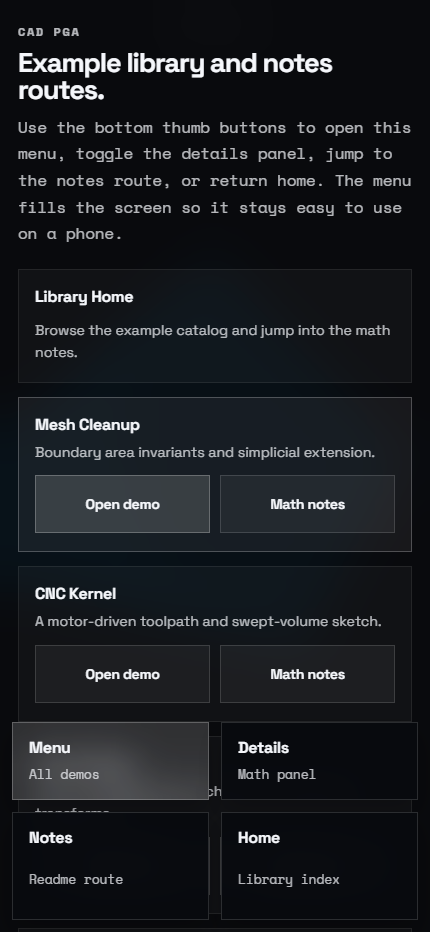
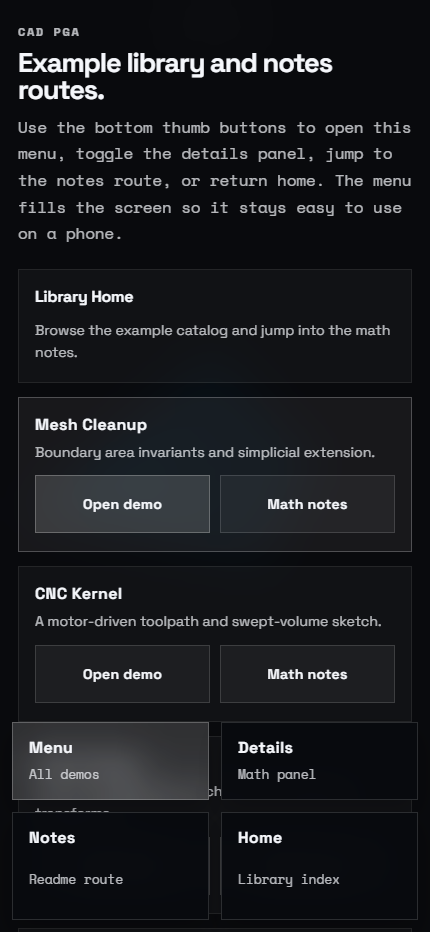
Polish mobile demo framing and docs typography

diff --git a/scripts/generate-screenshots.ts b/scripts/generate-screenshots.ts
@@ -37,36 +37,36 @@ const screenshots: ScreenshotSpec[] = [
   {
     fileName: "library-home.png",
     path: "/",
-    viewport: { width: 1440, height: 1100 },
-    waitMs: 1200
+    viewport: { width: 430, height: 932 },
+    waitMs: 2200
   },
   {
     fileName: "mesh-cleanup.png",
     path: "/mesh-cleanup/",
-    viewport: { width: 1440, height: 960 },
+    viewport: { width: 430, height: 932 },
     waitMs: 2200,
-    prepare: hideDetails
+    prepare: ensureDetailsClosed
   },
   {
     fileName: "cnc-kernel-simulator.png",
     path: "/cnc-kernel-simulator/",
-    viewport: { width: 1440, height: 960 },
-    waitMs: 2200,
-    prepare: hideDetails
+    viewport: { width: 430, height: 932 },
+    waitMs: 3200,
+    prepare: ensureDetailsClosed
   },
   {
     fileName: "gear-rotation-linkage.png",
     path: "/gear-rotation-linkage/",
-    viewport: { width: 1440, height: 960 },
-    waitMs: 1800,
-    prepare: hideDetails
+    viewport: { width: 430, height: 932 },
+    waitMs: 700,
+    prepare: ensureDetailsClosed
   },
   {
     fileName: "meshless-fea-wos.png",
     path: "/meshless-fea-wos/",
-    viewport: { width: 1440, height: 960 },
+    viewport: { width: 430, height: 932 },
     waitMs: 4200,
-    prepare: hideDetails
+    prepare: ensureDetailsClosed
   },
   {
     fileName: "mobile-menu.png",
@@ -107,6 +107,7 @@ async function captureShot(browser: Browser, baseUrl: string, shot: ScreenshotSp
     await page.setViewport(shot.viewport);
     await page.goto(`${baseUrl}${shot.path}`, { waitUntil: "networkidle0" });
     await waitForStableUi(page);
+    await waitForMathIfNeeded(page);
 
     if (shot.prepare) {
       await shot.prepare(page);
@@ -139,6 +140,20 @@ async function waitForStableUi(page: Page) {
       })
     )
   );
+}
+
+async function waitForMathIfNeeded(page: Page) {
+  await page.waitForFunction(() => {
+    const root = document.documentElement;
+    const isDocsPage = !!document.querySelector("main.page-shell");
+    if (!isDocsPage) {
+      return true;
+    }
+
+    return root.classList.contains("docs-enhanced") &&
+      !root.classList.contains("math-loading") &&
+      !root.classList.contains("demo-math-loading");
+  }, { timeout: 20000 }).catch(() => undefined);
 }
 
 function createStaticServer(rootPath: string) {
@@ -207,12 +222,22 @@ function delay(ms: number) {
   });
 }
 
-async function hideDetails(page: Page) {
-  const button = await page.$('button[data-demo-toggle="details"]');
-  if (!button) {
-    return;
+async function ensureDetailsClosed(page: Page) {
+  const detailsOpen = await page.evaluate(() =>
+    document.body.classList.contains("cad-pga-details-open")
+  );
+
+  if (detailsOpen) {
+    const button = await page.$('button[data-demo-toggle="details"]');
+    if (button) {
+      await button.click();
+      await delay(250);
+    }
   }
 
-  await button.click();
-  await delay(250);
+  await page.evaluate(() => {
+    if (document.activeElement instanceof HTMLElement) {
+      document.activeElement.blur();
+    }
+  });
 }

diff --git a/src/demo-panels.css b/src/demo-panels.css
@@ -31,7 +31,7 @@ body.cad-pga-demo-page select {
 .cad-pga-menu-copy strong,
 .cad-pga-menu-action,
 .cad-pga-controls-label {
-  letter-spacing: -0.02em;
+  letter-spacing: 0.02em;
 }
 
 .cad-pga-thumb-meta,
@@ -70,22 +70,22 @@ body.cad-pga-demo-page select {
   color: var(--demo-ink-strong) !important;
   font-family: "Space Grotesk", "Segoe UI", "Helvetica Neue", Arial, sans-serif;
   font-weight: 700;
-  letter-spacing: -0.05em;
+  letter-spacing: 0.03em;
 }
 
 .cad-pga-details-panel h1 {
   font-size: clamp(1.45rem, 2vw, 1.9rem) !important;
-  line-height: 0.96;
+  line-height: 1.14;
   border: 0 !important;
   padding: 0 !important;
 }
 
 .cad-pga-details-panel h2 {
   font-size: 0.86rem !important;
-  line-height: 1.2;
+  line-height: 1.42;
   color: var(--demo-faint) !important;
   text-transform: uppercase;
-  letter-spacing: 0.12em !important;
+  letter-spacing: 0.16em !important;
 }
 
 .cad-pga-details-panel p,
@@ -225,15 +225,6 @@ body.cad-pga-demo-page select {
 
 .cad-pga-details-panel mjx-container[jax="CHTML"][display="true"] {
   margin: 0;
-}
-
-html.demo-math-loading .cad-pga-details-panel::after {
-  content: "Rendering math...";
-  display: block;
-  margin-top: 8px;
-  color: var(--demo-faint);
-  font-size: 0.76rem;
-  font-family: "Space Mono", "Cascadia Code", "SFMono-Regular", Consolas, monospace;
 }
 
 html.demo-math-error .cad-pga-details-panel::after {

diff --git a/cnc-kernel-simulator/index.html b/cnc-kernel-simulator/index.html
@@ -183,7 +183,7 @@ p'(t) = \mathbf{M}(t)\,p\,\widetilde{\mathbf{M}(t)}
             // In ganja's basis ordering that becomes -x*e023 + y*e013 - z*e012 + e123.
             const point = (x, y, z) => 1e123 - x * 1e023 + y * 1e013 - z * 1e012;
             const orbitRotor = (h, p) => (p * 1e23).Exp().Mul((h * 1e13).Exp());
-            const view = { h: -0.28, p: -0.16, scale: 1.1 };
+            const view = { h: -0.28, p: -0.16, scale: 0.54 };
             const camera = 0e0;
             camera.set(orbitRotor(view.h, view.p));
 
@@ -245,6 +245,7 @@ p'(t) = \mathbf{M}(t)\,p\,\widetilde{\mathbf{M}(t)}
             const drillRadius = 0.3;
             const drillHeight = 0.8;
             const cutTravel = 1.7;
+            const startTime = performance.now();
 
             const stockWireframe = makeBoxWireframe(stockParams.w, stockParams.h, stockParams.d);
             const cutVolume = makeSolidBox(cutTravel + drillRadius, drillRadius, stockParams.d + 0.01);
@@ -260,7 +261,7 @@ p'(t) = \mathbf{M}(t)\,p\,\widetilde{\mathbf{M}(t)}
             };
 
             const canvas = this.graph(() => {
-                const time = performance.now() / 1000;
+                const time = (performance.now() - startTime) / 1000;
 
                 const spinAngle = time * -15;
                 const rotor = Math.cos(spinAngle / 2) + Math.sin(spinAngle / 2) * 1e12;

diff --git a/src/docs.css b/src/docs.css
@@ -92,23 +92,23 @@ h3 {
   color: var(--ink-strong);
   font-family: "Space Grotesk", "Segoe UI", "Helvetica Neue", Arial, sans-serif;
   font-weight: 700;
-  letter-spacing: 0.01em;
+  letter-spacing: 0.03em;
 }
 
 h1 {
   max-width: 10ch;
   font-size: clamp(2.8rem, 7vw, 5rem);
-  line-height: 0.88;
+  line-height: 1.08;
 }
 
 h2 {
   font-size: clamp(1.7rem, 3vw, 2.35rem);
-  line-height: 0.96;
+  line-height: 1.14;
 }
 
 h3 {
   font-size: clamp(1.3rem, 2vw, 1.65rem);
-  line-height: 0.98;
+  line-height: 1.16;
 }
 
 p,
@@ -238,15 +238,6 @@ code {
 
 .muted {
   color: var(--faint);
-}
-
-html.math-loading body::after {
-  content: "Rendering math...";
-  position: fixed;
-  right: 18px;
-  bottom: 18px;
-  color: var(--faint);
-  font-size: 0.82rem;
 }
 
 html.math-error body::after {

diff --git a/mesh-cleanup/index.html b/mesh-cleanup/index.html
@@ -220,7 +220,7 @@ A(K) = \frac{1}{2}\left\| o \vee \partial K \right\|_{\infty}
             // In ganja's basis ordering that becomes -x*e023 + y*e013 - z*e012 + e123.
             const point = (x, y, z) => 1e123 - x * 1e023 + y * 1e013 - z * 1e012;
             const orbitRotor = (h, p) => (p * 1e23).Exp().Mul((h * 1e13).Exp());
-            const view = { h: -0.42, p: -0.14, scale: 0.92 };
+            const view = { h: -0.42, p: -0.14, scale: 0.48 };
             const camera = 0e0;
             camera.set(orbitRotor(view.h, view.p));
 

diff --git a/src/docs-entry.js b/src/docs-entry.js
@@ -9,6 +9,8 @@ import './docs.css';
 const root = document.documentElement;
 const prism = Prism;
 
+root.classList.add('docs-enhanced');
+
 window.Prism = prism;
 globalThis.Prism = prism;
 
@@ -23,6 +25,9 @@ highlightCode();
 try {
   await import('mathjax/tex-chtml.js');
   await window.MathJax?.startup?.promise;
+  root.classList.remove('math-loading');
+  root.classList.add('math-ready');
+  highlightCode();
 } catch (error) {
   root.classList.remove('math-loading');
   root.classList.add('math-error');

diff --git a/gear-rotation-linkage/index.html b/gear-rotation-linkage/index.html
@@ -254,9 +254,9 @@ P_{\mathrm{new}} = M\,P\,\widetilde{M}
         const baseGear = makeBaseGear(12, 1.7, gearRadius);
         const baseArm = makeBaseArm(4, 0.2);
 
-        let viewportScale = 92;
+        let viewportScale = 48;
         let offsetX = 0;
-        let offsetY = 0;
+        let offsetY = -54;
         let dragging = false;
         let lastClientX = 0;
         let lastClientY = 0;

diff --git a/meshless-fea-wos/index.html b/meshless-fea-wos/index.html
@@ -509,7 +509,7 @@ d(P,\partial\Omega)=
             const graphOptions = {
                 animate: true,
                 grid: false,
-                scale: 0.92
+                scale: 0.72
             };
 
             const canvas = this.graph(() => {
